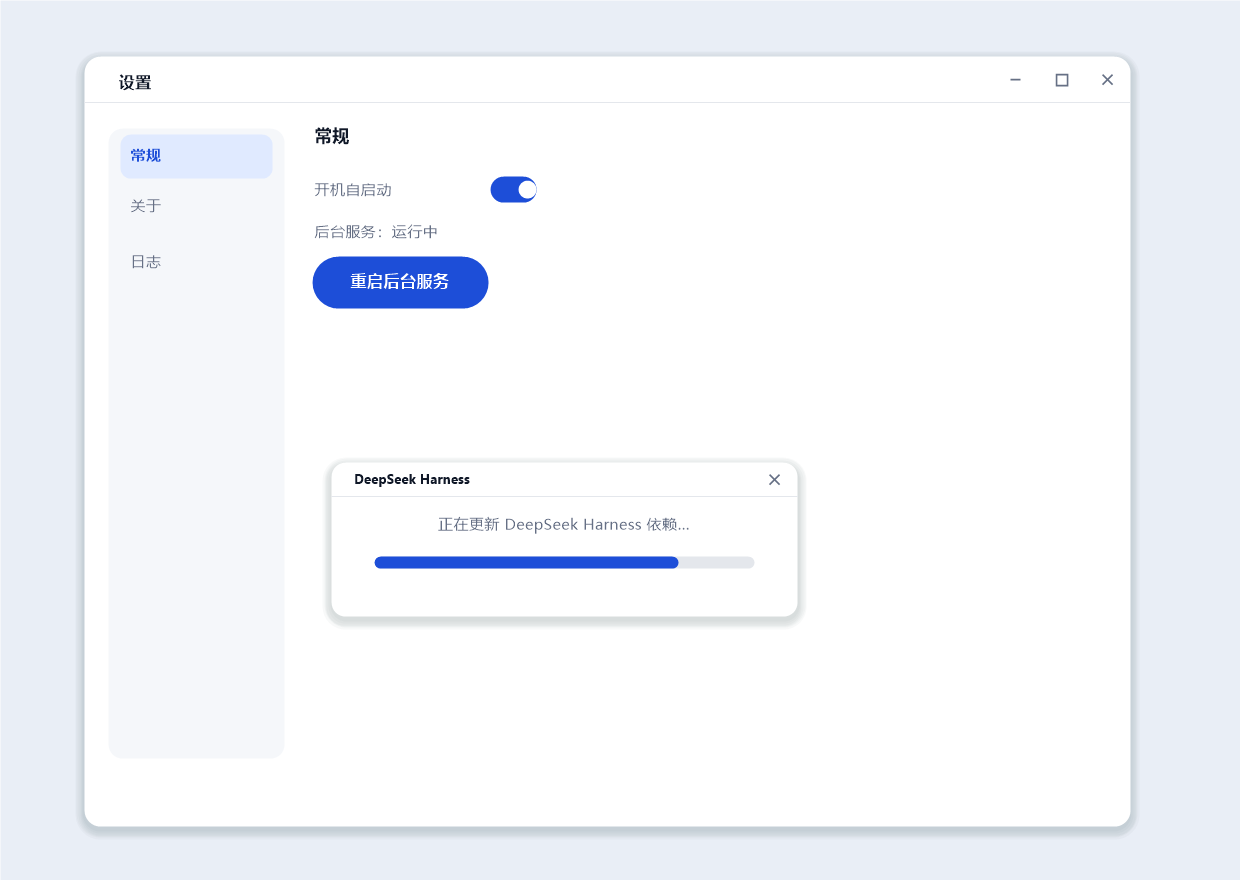
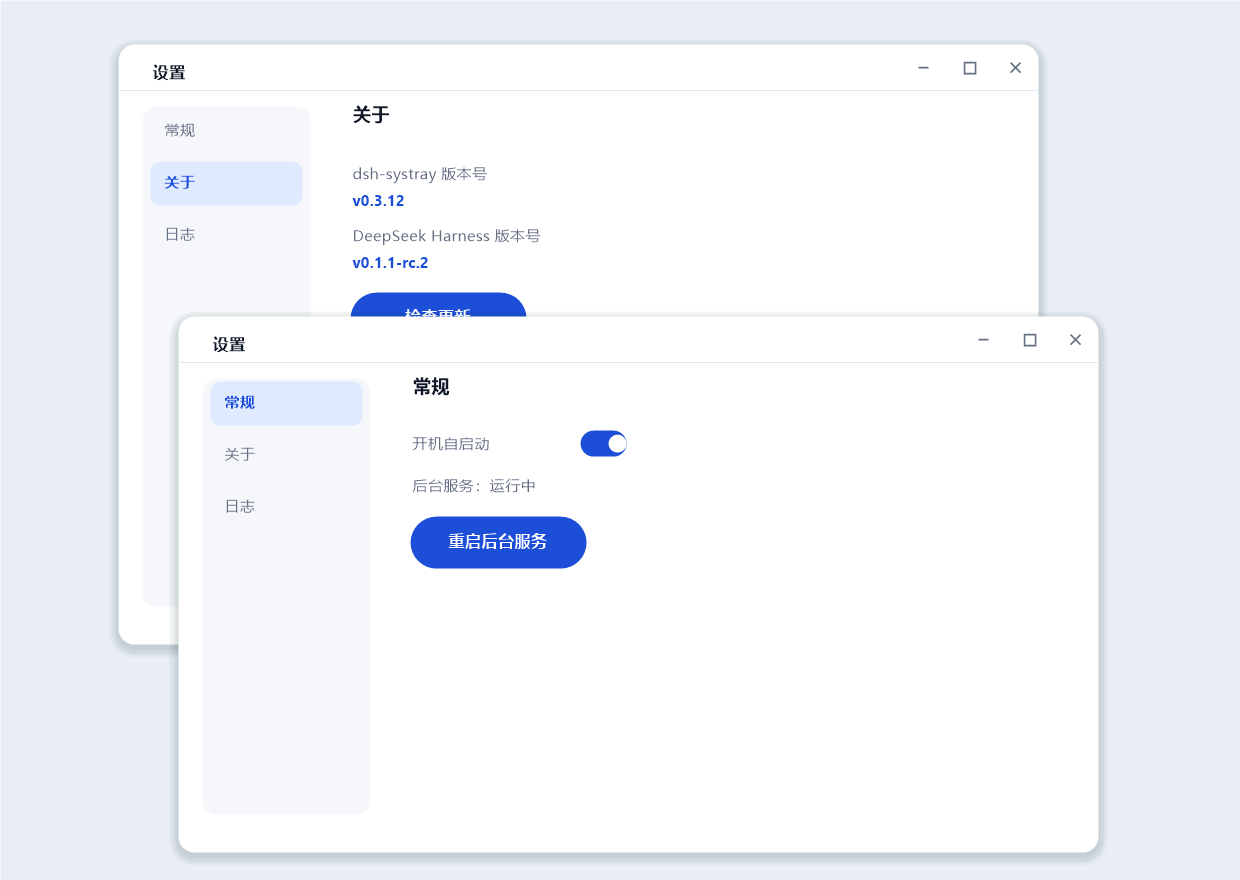
docs(site): 截图改为两张设置窗口层叠——后方关于页 + 前方常规页；网站以层叠卡片方式展示截图，说明同步

diff --git a/docs/index.html b/docs/index.html
@@ -34,20 +34,14 @@ a{color:inherit;text-decoration:none}
 .ver-chip{margin-top:20px;font-size:13px;color:var(--muted)}
 .ver-chip b{color:var(--primary)}
 
-/* hub: mockup + copy */
+/* hub: layered screenshot + copy */
 .hub{display:grid;grid-template-columns:1.05fr .95fr;gap:48px;align-items:center;padding:52px 0 12px}
 @media(max-width:820px){.hub{grid-template-columns:1fr}}
-.mock{background:var(--surface);border:1px solid var(--border);border-radius:var(--rad);box-shadow:var(--shadow);padding:24px;display:flex;gap:16px}
-.mock .side{width:104px;flex:none;background:var(--bg);border-radius:12px;padding:12px 8px;font-size:13px}
-.mock .side div{padding:8px 10px;border-radius:8px;margin-bottom:6px;color:var(--muted)}
-.mock .side div.on{background:var(--soft);color:var(--primary);font-weight:600}
-.mock .body{flex:1;font-size:14px}
-.mock .row{display:flex;justify-content:space-between;align-items:center;padding:13px 0;border-bottom:1px solid var(--border)}
-.mock .row:last-child{border-bottom:0}
-.mock .row b{font-weight:600}
-.mock .row .muted{color:var(--muted)}
-.sw{width:44px;height:25px;border-radius:999px;background:var(--primary);position:relative;flex:none}
-.sw:after{content:"";position:absolute;top:3.5px;right:3.5px;width:18px;height:18px;border-radius:50%;background:#fff}
+.shot-stack{position:relative}
+.shot-stack .shot{width:100%;display:block;border-radius:16px;position:relative;z-index:2;box-shadow:0 28px 64px rgba(16,24,40,.16)}
+.shot-stack::before,.shot-stack::after{content:"";position:absolute;left:0;right:0;height:100%;border-radius:16px;background:#fff;z-index:1}
+.shot-stack::before{top:8px;left:-8px;box-shadow:0 14px 34px rgba(16,24,40,.12)}
+.shot-stack::after{top:16px;left:-16px;box-shadow:0 18px 44px rgba(16,24,40,.10)}
 .hub-copy h2{font-size:27px;margin:0 0 12px;letter-spacing:-.02em}
 .hub-copy p{color:var(--muted);line-height:1.65;max-width:44ch}
 
@@ -98,19 +92,12 @@ footer .sep{margin:0 8px;color:var(--border)}
   </section>
 
   <section class="hub">
-    <div class="mock" data-reveal>
-      <div class="side"><div class="on">常规</div><div>关于</div></div>
-      <div class="body">
-        <div class="row"><span>开机自启动</span><span class="sw"></span></div>
-        <div class="row"><span>dsh-systray 版本号</span><b style="color:var(--primary)">v0.3.12</b></div>
-        <div class="row"><span>DeepSeek Harness 版本号</span><b style="color:var(--primary)">v0.1.1-rc.2</b></div>
-        <div class="row"><span>检查更新</span><b class="muted">启动后 30s 静默</b></div>
-        <div class="row"><span>一键打开 Web UI</span><b style="color:var(--primary)">127.0.0.1:3080</b></div>
-      </div>
+    <div class="shot-stack" data-reveal>
+      <img class="shot" src="screenshot.png" alt="dsh-systray 设置窗口（常规 / 关于）" />
     </div>
     <div class="hub-copy" data-reveal>
       <h2>安静，但全能</h2>
-      <p>系统托盘里的 DeepSeek Harness —— 无窗口拉起本地服务、进度可视化，设置窗口统一管理开机自启、dsh-systray 与 DeepSeek Harness 版本号、检查更新，托盘图标随系统深浅色自动适配。</p>
+      <p>系统托盘里的 DeepSeek Harness —— 无窗口拉起本地服务、进度可视化。设置窗口在「常规」页管理开机自启与后台服务重启，在「关于」页查看 dsh-systray 与 DeepSeek Harness 版本号、检查更新；托盘图标随系统深浅色自动适配。</p>
     </div>
   </section>
 

diff --git a/README.md b/README.md
@@ -22,7 +22,7 @@
   <a href="https://github.com/refyon/dsh-systray/actions/workflows/release.yml"><img alt="Release build" src="https://github.com/refyon/dsh-systray/actions/workflows/release.yml/badge.svg" /></a>
 </p>
 
-<img src="docs/screenshot.png" alt="dsh-systray 设置窗口与下载进度" />
+<img src="docs/screenshot.png" alt="dsh-systray 设置窗口（常规 / 关于）" />
 
 dsh-systray 是一个 Windows / macOS 系统托盘应用：双击即可后台拉起 DeepSeek Harness Web 本地服务，托盘一望即知，无需记忆端口。设置窗口统一管理开机自启、dsh-systray 与 DeepSeek Harness 版本号、检查更新，托盘图标随系统深浅色自适应，内置自动更新（启动 30 秒后静默检查新版本）。
 
